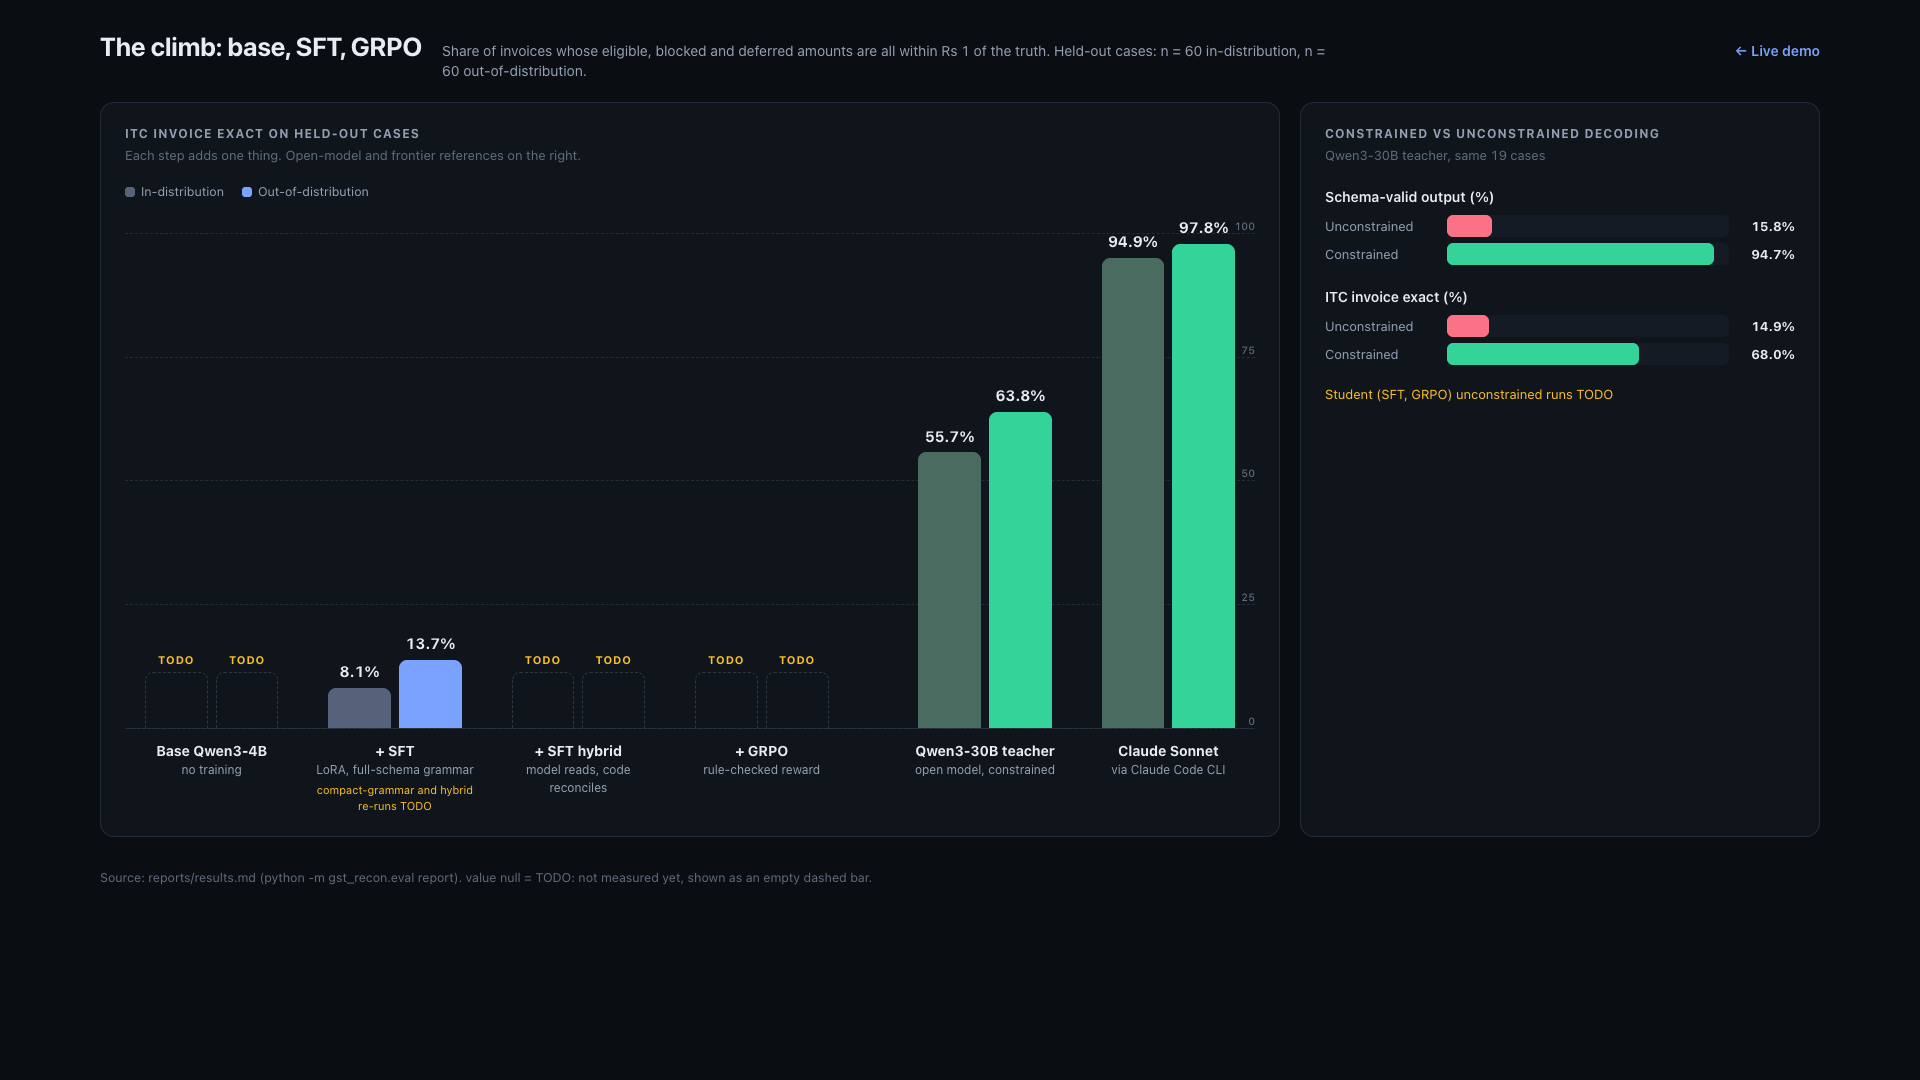
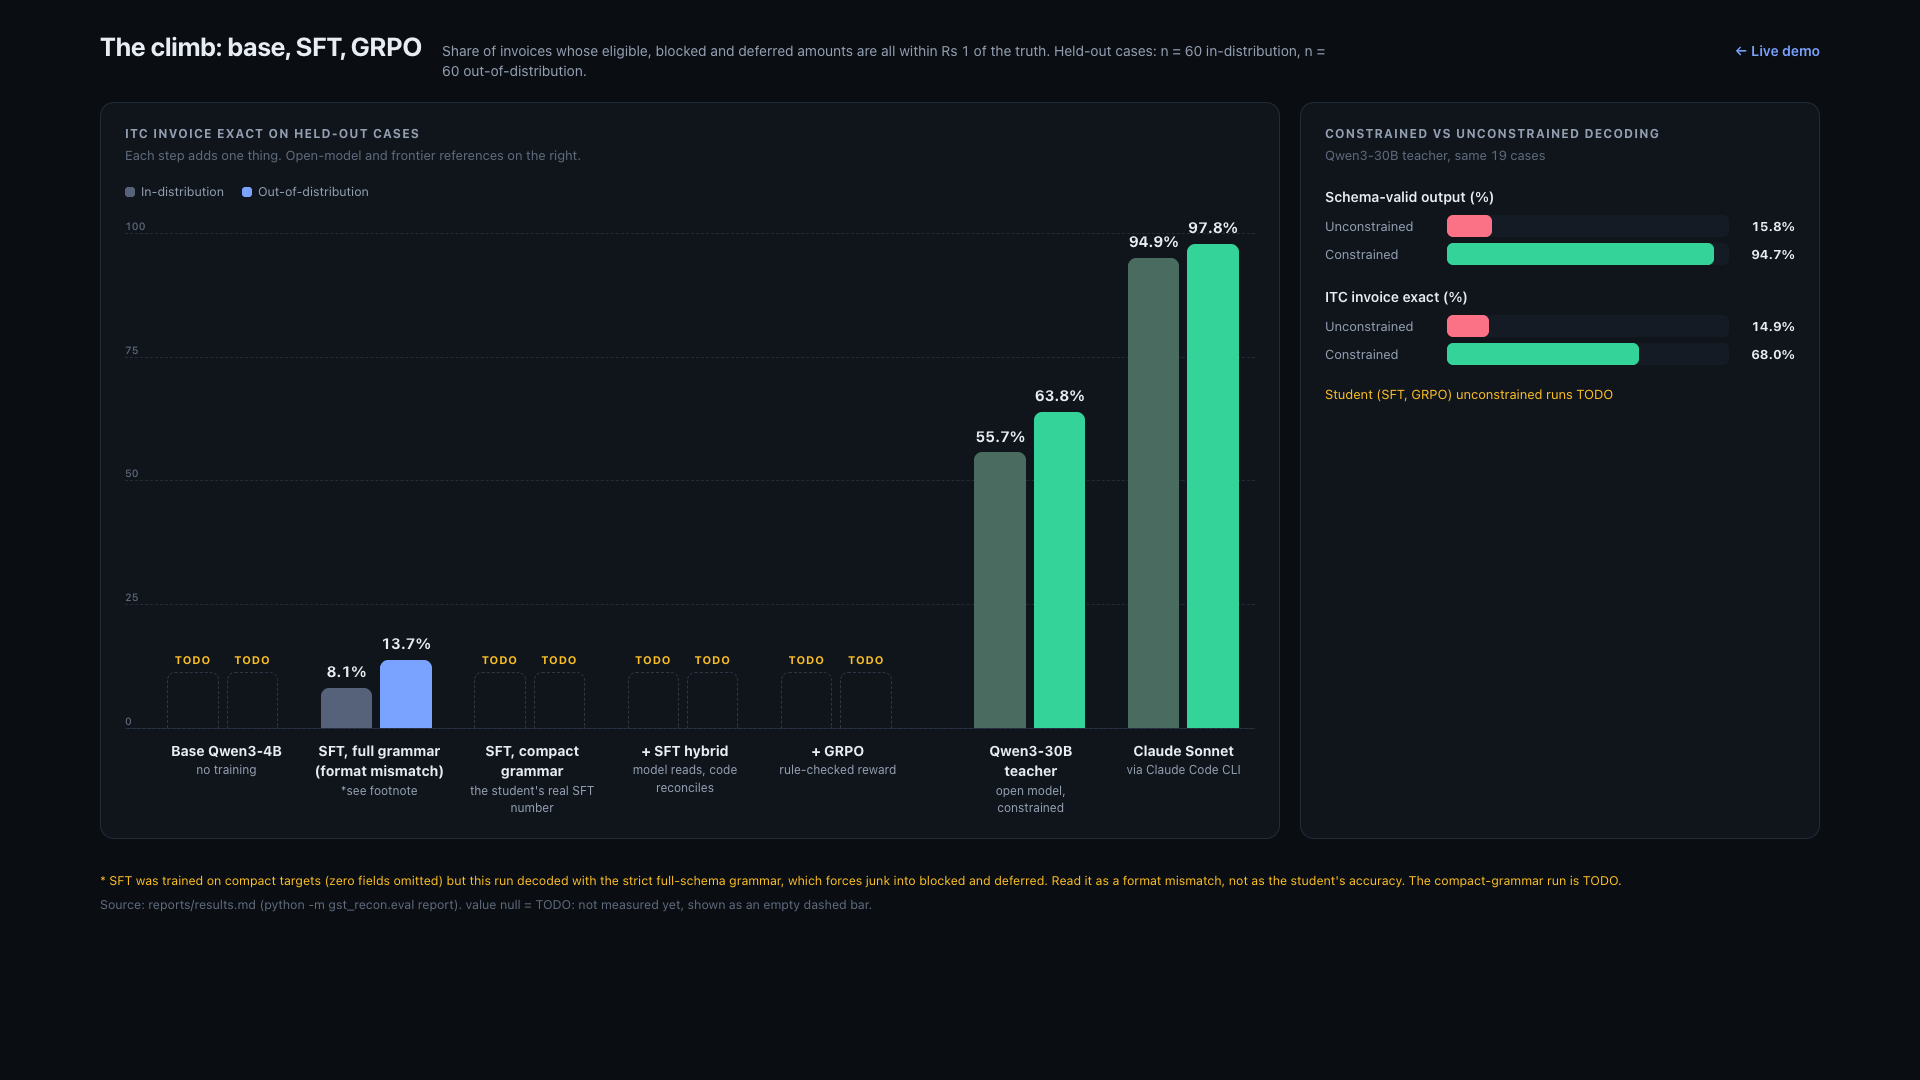
fix(demo): label the full-grammar SFT bars as a format mismatch, add the compact-grammar TODO bar, axis labels left

diff --git a/demo/static/results.html b/demo/static/results.html
@@ -18,10 +18,10 @@
   .card .lead { color: var(--dim); margin: 0 0 18px; font-size: 13px; }
   .legend { display: flex; gap: 18px; margin-bottom: 8px; font-size: 12.5px; color: var(--muted); }
   .legend i { display: inline-block; width: 10px; height: 10px; border-radius: 3px; margin-right: 6px; vertical-align: -1px; }
-  .chart { display: flex; align-items: flex-end; gap: 18px; height: 520px; padding: 24px 4px 0; border-bottom: 1px solid var(--line-2); position: relative; }
-  .grid { position: absolute; inset: 24px 0 0 0; pointer-events: none; }
+  .chart { padding-left: 30px !important; display: flex; align-items: flex-end; gap: 18px; height: 520px; padding: 24px 4px 0; border-bottom: 1px solid var(--line-2); position: relative; }
+  .grid { position: absolute; inset: 24px 0 0 0; padding-left: 0; pointer-events: none; }
   .grid span { position: absolute; left: 0; right: 0; border-top: 1px dashed var(--line); font-size: 10.5px; color: var(--dim); }
-  .grid span b { position: absolute; right: 0; top: -15px; font-weight: 500; }
+  .grid span b { position: absolute; left: 0; top: -15px; font-weight: 500; }
   .group { flex: 1; display: flex; align-items: flex-end; justify-content: center; gap: 8px; height: 100%; position: relative; z-index: 1; }
   .gap { width: 22px; flex: none; }
   .bar { width: 38%; max-width: 64px; border-radius: 8px 8px 0 0; position: relative; min-height: 6px; transition: height .6s cubic-bezier(.2, .8, .2, 1); }
@@ -30,7 +30,7 @@
   .bar .v { position: absolute; bottom: 100%; left: 50%; transform: translateX(-50%); padding-bottom: 5px; font-weight: 700; font-size: 15px; font-variant-numeric: tabular-nums; white-space: nowrap; }
   .bar.todo { background: transparent; border: 1.5px dashed var(--line-2); border-bottom: 0; height: 56px !important; }
   .bar.todo .v { color: var(--warn); font-size: 11px; letter-spacing: .08em; font-weight: 700; }
-  .labels { display: flex; gap: 18px; padding: 12px 4px 0; }
+  .labels { display: flex; gap: 18px; padding: 12px 4px 0 34px; }
   .labels > div { flex: 1; text-align: center; }
   .labels .gap { flex: none; }
   .labels b { display: block; font-size: 14px; }
@@ -42,6 +42,7 @@
   .track { height: 22px; background: var(--panel-2); border-radius: 6px; overflow: hidden; }
   .track i { display: block; height: 100%; border-radius: 6px; transition: width .6s cubic-bezier(.2, .8, .2, 1); }
   .row .n { color: var(--text); font-weight: 700; font-variant-numeric: tabular-nums; text-align: right; }
+  .fn { display: block; color: var(--warn); margin-bottom: 6px; }
   .src { grid-column: 1 / -1; color: var(--dim); font-size: 12.5px; }
 </style>
 </head>
@@ -86,7 +87,7 @@ fetch("/static/results.json").then((r) => r.json()).then((d) => {
       <div class="row"><span>Unconstrained</span><div class="track"><i style="width:${r.unconstrained}%;background:var(--bad)"></i></div><span class="n">${fmt(r.unconstrained)}</span></div>
       <div class="row"><span>Constrained</span><div class="track"><i style="width:${r.constrained}%;background:var(--ok)"></i></div><span class="n">${fmt(r.constrained)}</span></div>
     </div>`).join("") + `<p class="lead" style="margin-top:20px;color:var(--warn)">${esc(dec.todo)}</p>`;
-  $("foot").textContent = `Source: ${d.source}`;
+  $("foot").innerHTML = (d.footnotes || []).map((f) => `<span class="fn">${esc(f)}</span>`).join("") + `Source: ${esc(d.source)}`;
 });
 </script>
 </body>
